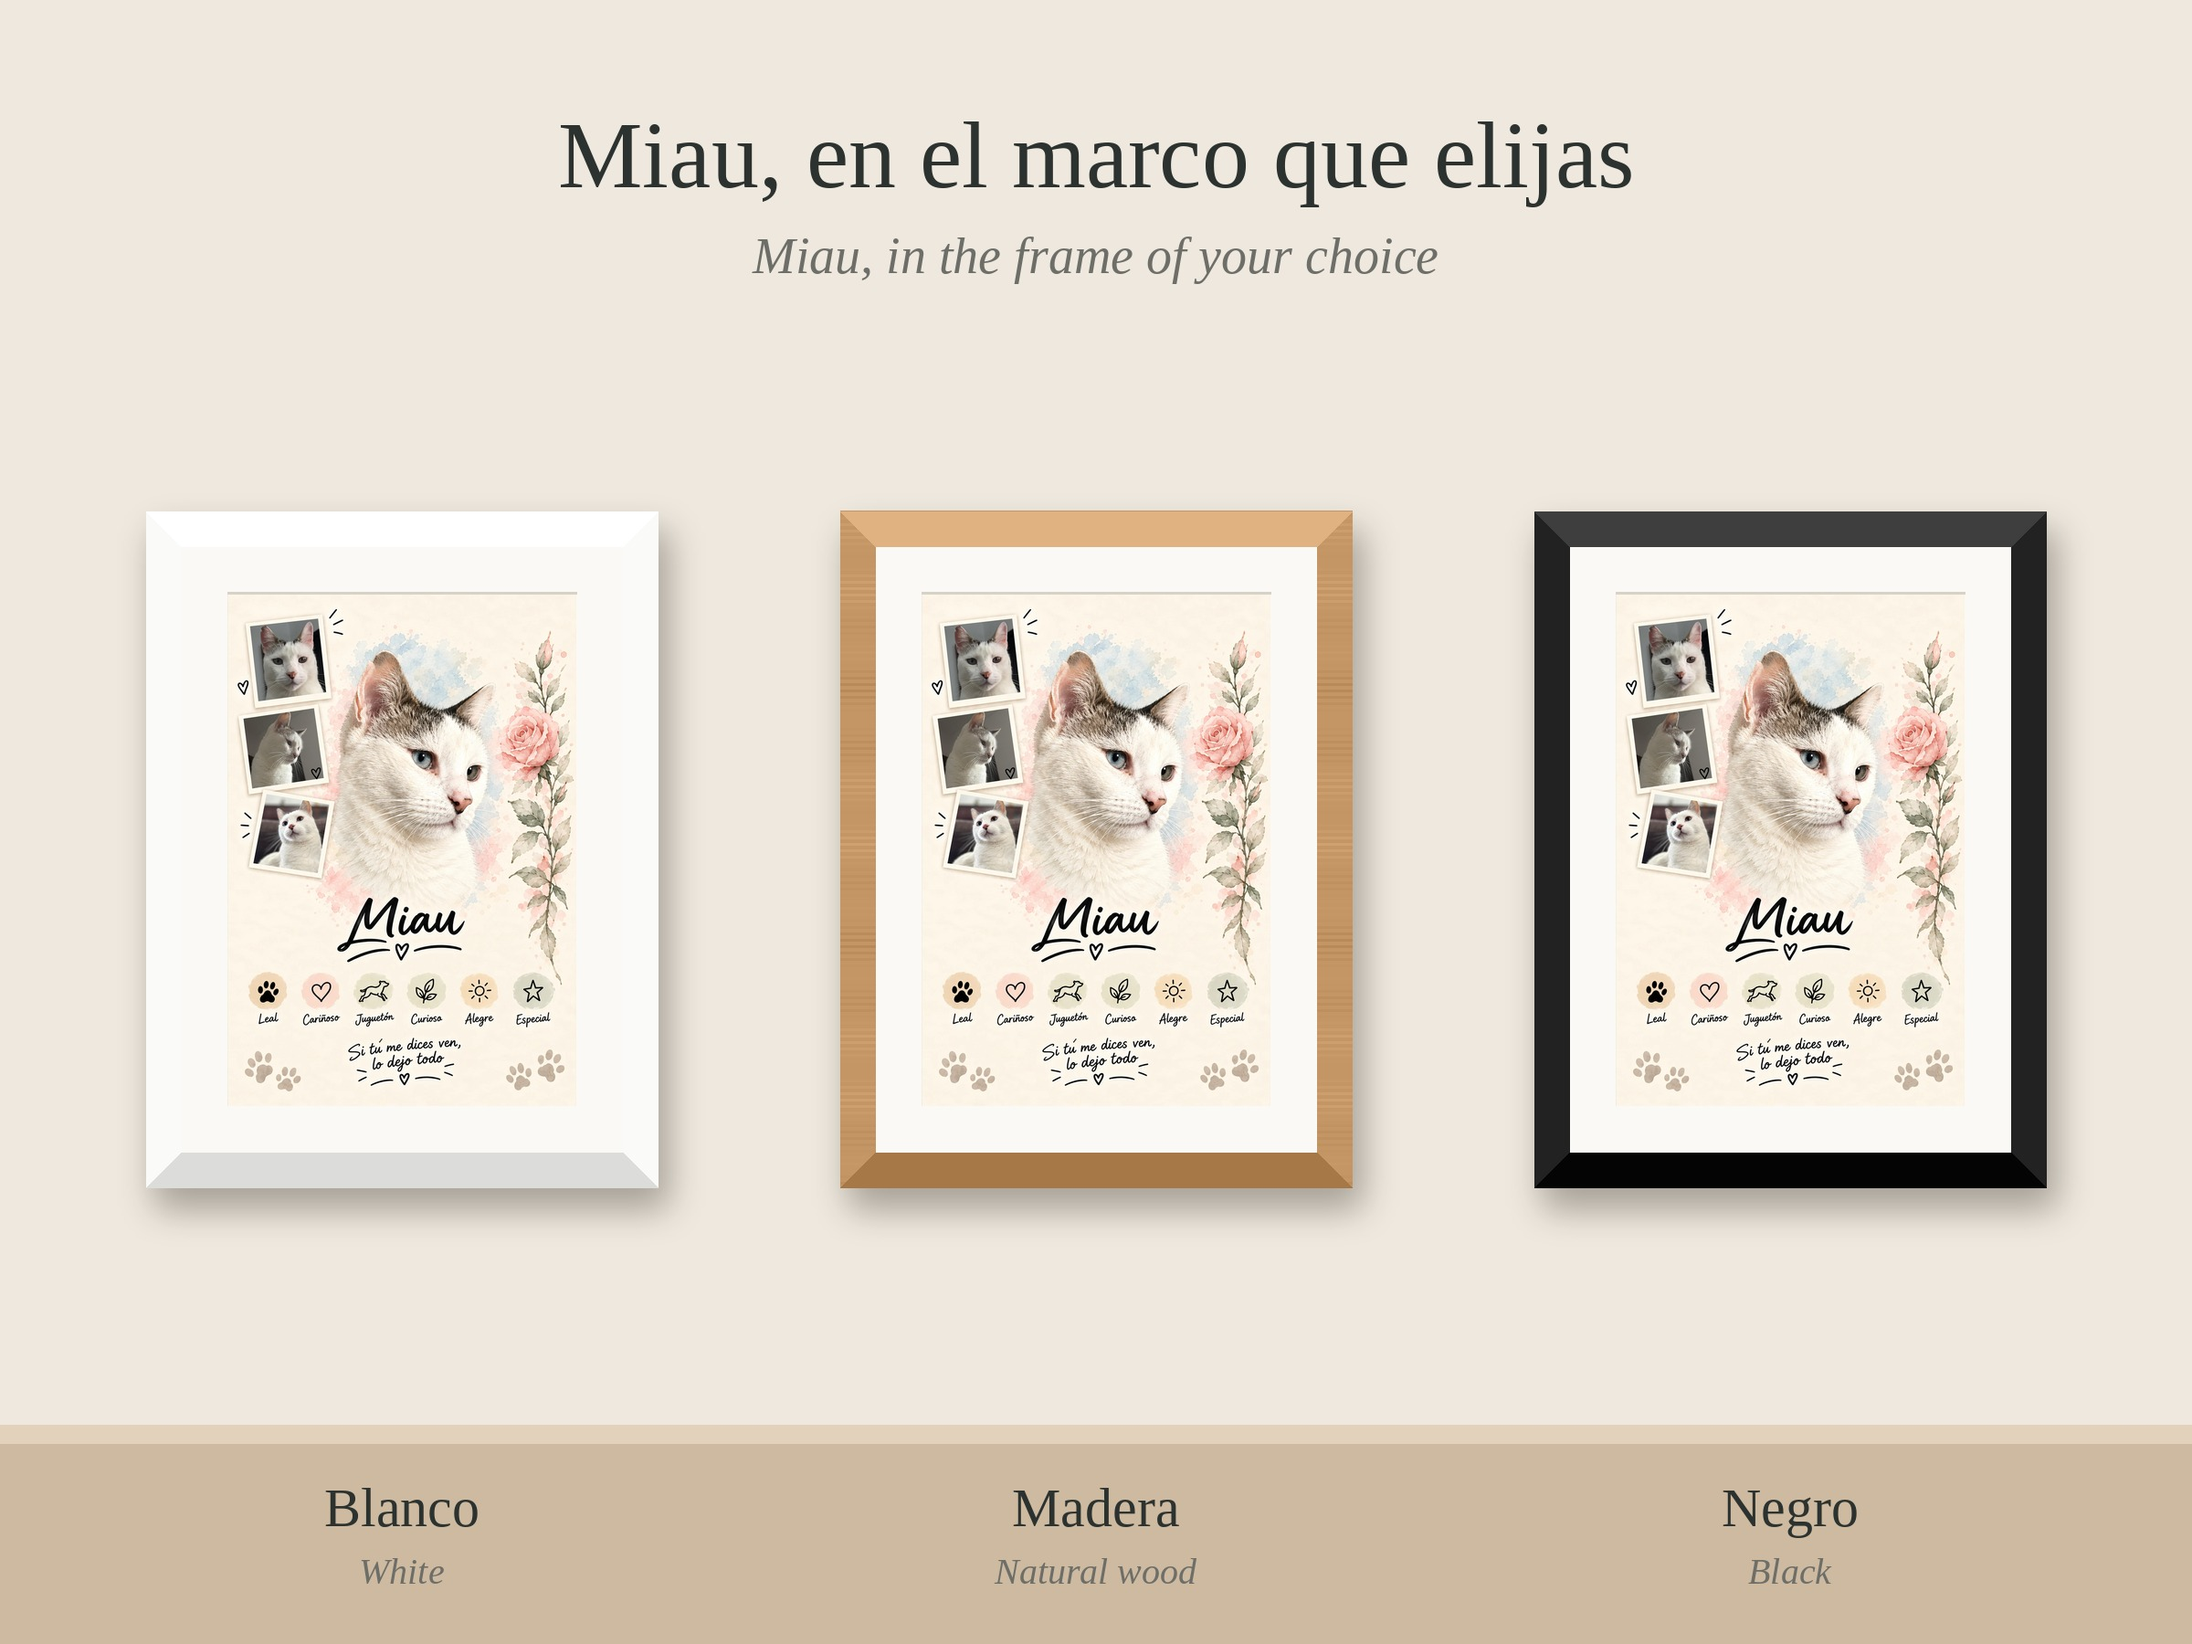
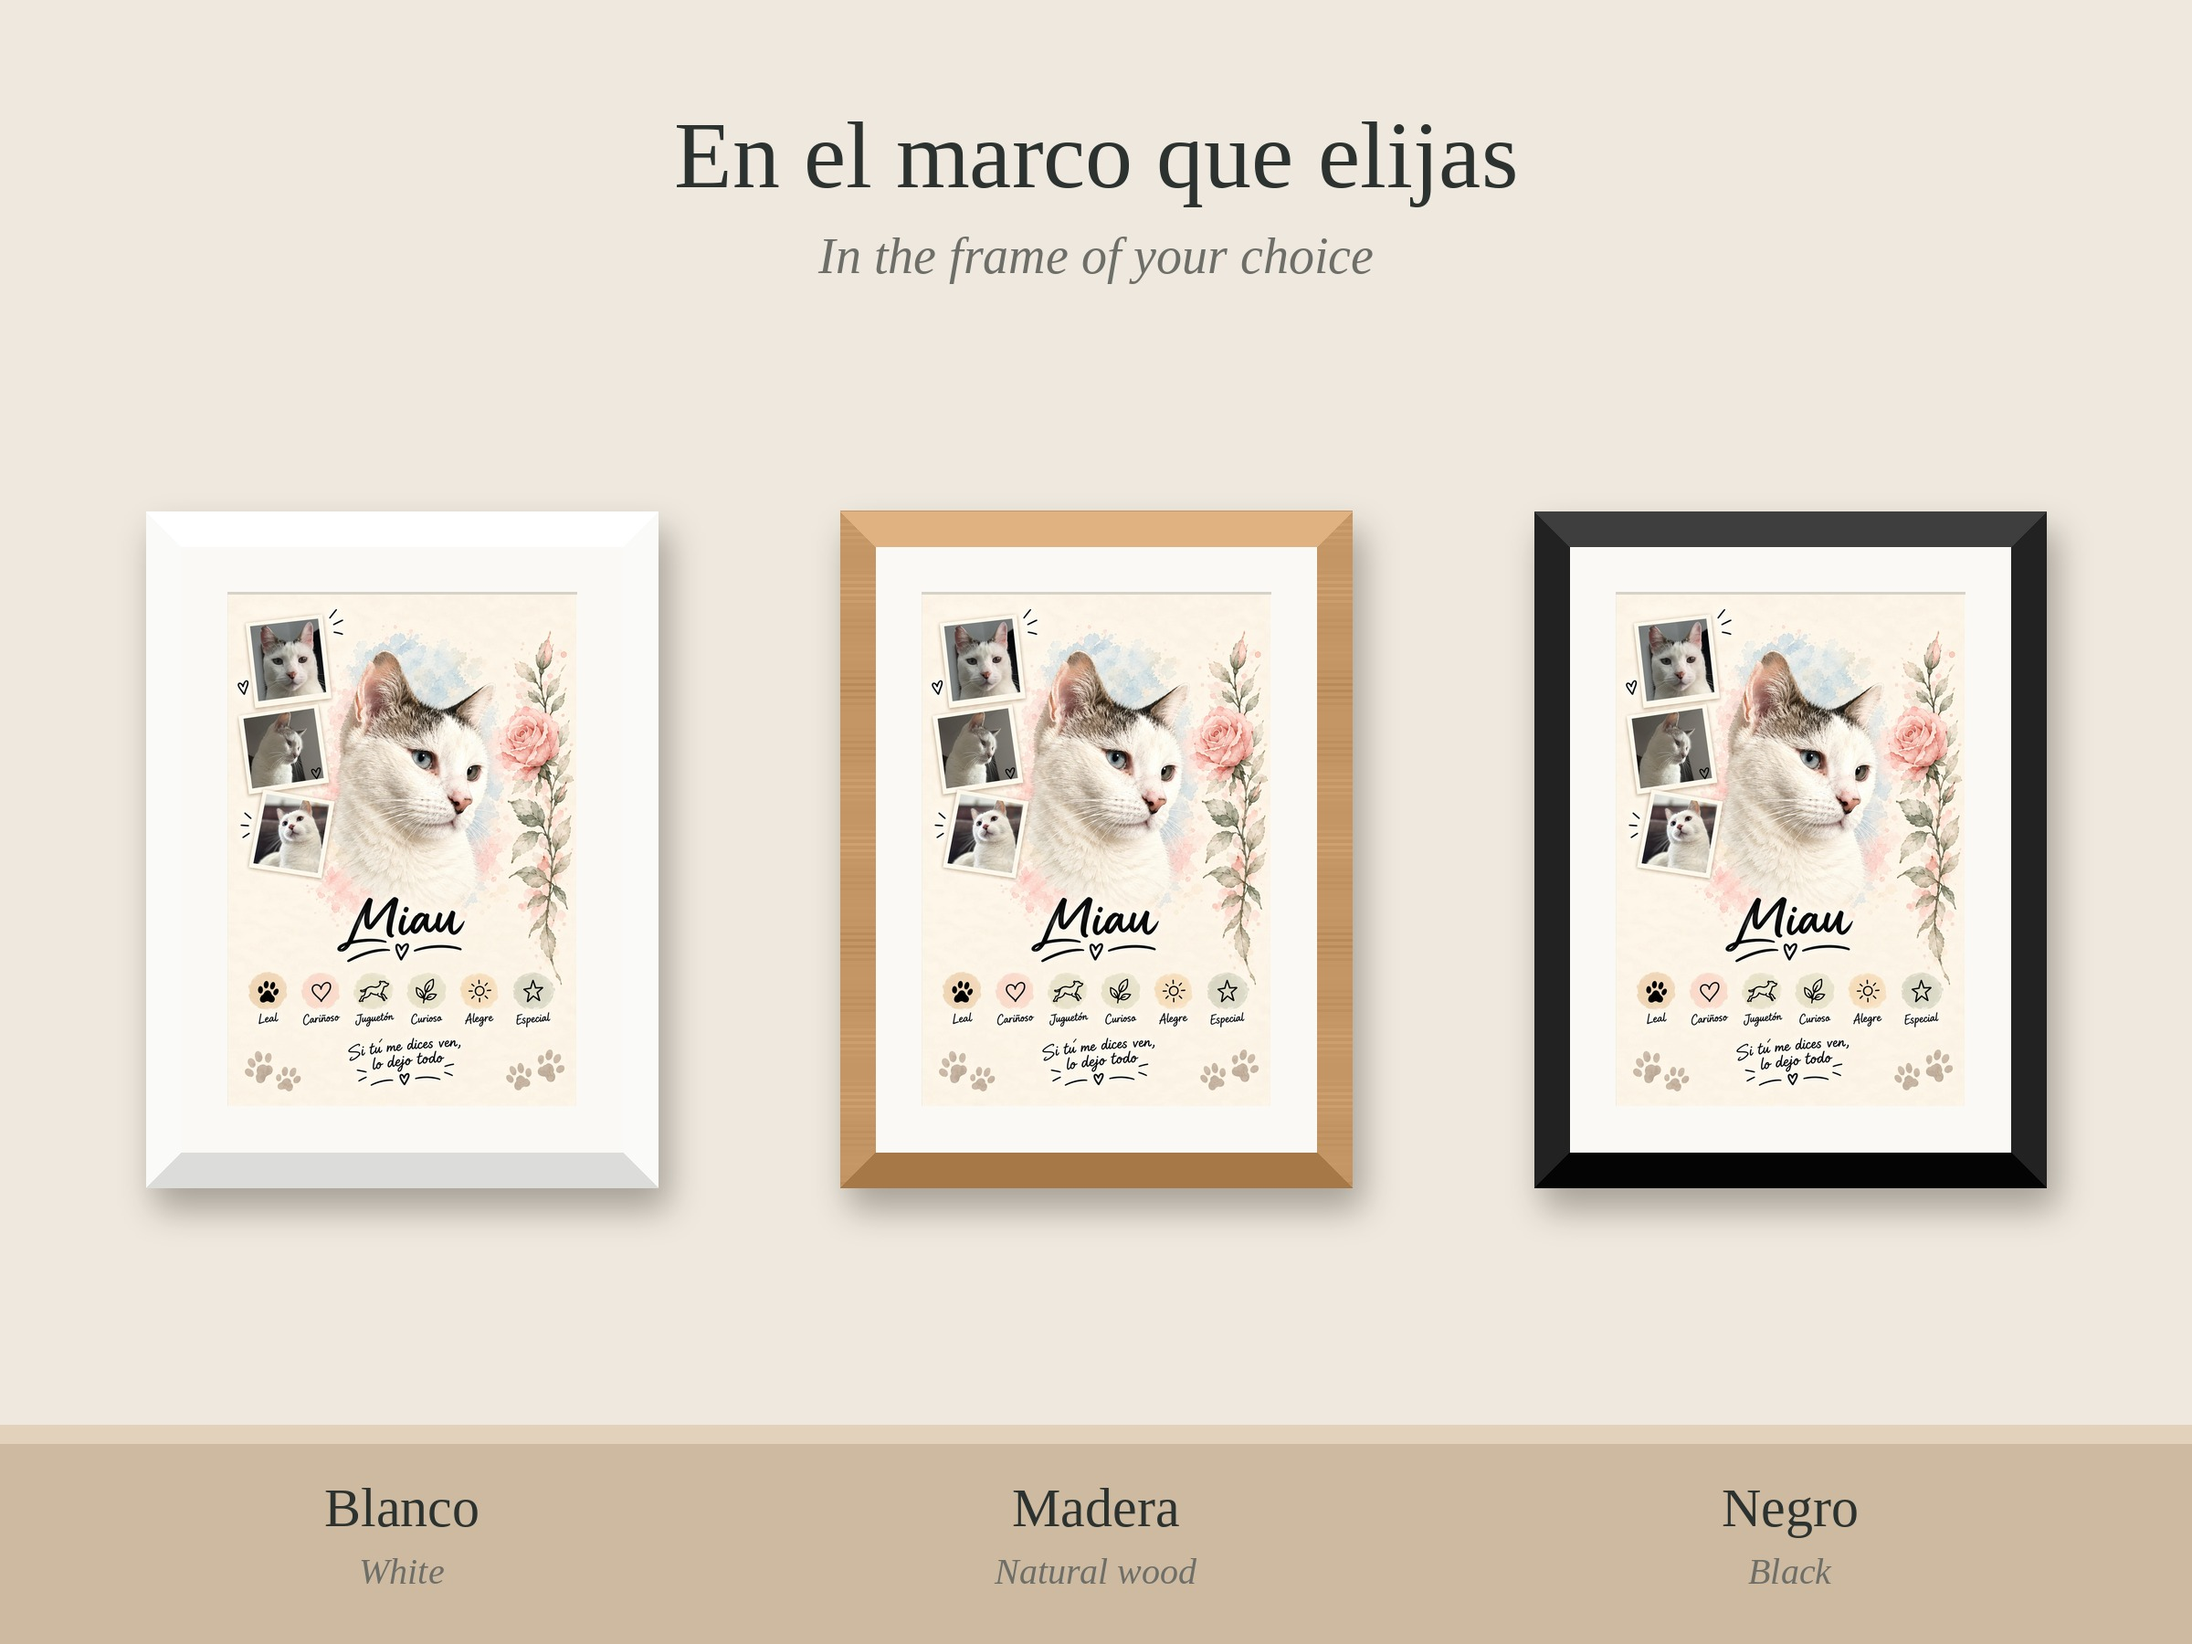
Fotos de caso con títulos genéricos (sin nombre de la mascota); ficha Lavanda sin antes/después
Claude-Session: https://claude.ai/code/session_01EXxT3oYALMgVYQXs29BEaV

Changed region(s): [[0.25, 0.0622, 0.75, 0.1867]]

diff --git a/generador/casos/caso_real.py b/generador/casos/caso_real.py
@@ -6,7 +6,7 @@ Carpeta del caso (assets/casos/<mascota>/):
   retrato-<estilo>.jpg        el retrato terminado (uno o varios estilos)
 
 Uso:
-  python3 generador/casos/caso_real.py miau Miau lavanda "ojos de distinto color"
+  python3 generador/casos/caso_real.py miau Miau lavanda x   (títulos genéricos: sin nombre de la mascota)
   → assets/casos/miau/anuncio/<estilo>-1-antes-despues.jpg … -4-marcos.jpg
 
 Recortes: FOCO[caso] = (fx, fy) de la cara en la foto principal y en el retrato (0–1).
@@ -63,7 +63,7 @@ def flecha(d, x0, x1, y):
 # 2 · De sus fotos a su retrato: demuestra que usamos TODAS las fotos del cliente
 def fotos_a_retrato(caso, nombre, estilo, salida):
     im, d = lienzo()
-    titulo(d, f'De sus fotos al retrato de {nombre}', f'From {nombre}\'s photos to the portrait')
+    titulo(d, 'De sus fotos a su retrato', 'From their photos to their portrait')
     fotos = [abrir(C(caso, 'foto-principal.jpg'))] + [abrir(C(caso, f'extra-{i}.jpg')) for i in (1, 2, 3)]
     for foto, c, a in zip(fotos, [(430, 690), (830, 740), (440, 1210), (840, 1250)], [-5, 4, 3, -4]):
         polaroid(im, foto, c, 390, a)
@@ -85,7 +85,7 @@ def fotos_a_retrato(caso, nombre, estilo, salida):
 # 3 · Detalle: la misma zona de la foto y del retrato (fidelidad)
 def detalle(caso, nombre, estilo, rasgo, salida):
     im, d = lienzo()
-    titulo(d, f'Hasta el último detalle: {rasgo}', 'True to every detail')
+    titulo(d, 'Fiel hasta el último detalle', 'True to every detail')
     foto, ret = abrir(C(caso, 'foto-principal.jpg')), abrir(C(caso, f'retrato-{estilo}.jpg'))
     ff, fr = FOCO[caso]['foto'], FOCO[caso]['retrato']
     s = 900
@@ -98,7 +98,7 @@ def detalle(caso, nombre, estilo, rasgo, salida):
         centrado(d, x + s / 2, 1490, en, F(ITAL, 42), GRIS)
     d = ImageDraw.Draw(im)
     flecha(d, 1130, 1270, 400 + s // 2)
-    centrado(d, W / 2, 1715, f'Caso real · {nombre}', F(ITAL, 40), GRIS)
+    centrado(d, W / 2, 1715, f'Caso real · estilo {estilo.capitalize()}', F(ITAL, 40), GRIS)
     im.save(salida, quality=92)
 
 
@@ -141,8 +141,8 @@ def marcos(caso, nombre, estilo, salida):
         d = ImageDraw.Draw(im)
         centrado(d, x + fw / 2, 1650, es, F(SERIF, 60), TINTA)
         centrado(d, x + fw / 2, 1720, en, F(ITAL, 40), GRIS)
-    centrado(d, W / 2, 170, f'{nombre}, en el marco que elijas', F(SERIF, 104), TINTA)
-    centrado(d, W / 2, 280, f'{nombre}, in the frame of your choice', F(ITAL, 56), GRIS)
+    centrado(d, W / 2, 170, 'En el marco que elijas', F(SERIF, 104), TINTA)
+    centrado(d, W / 2, 280, 'In the frame of your choice', F(ITAL, 56), GRIS)
     im.save(salida, quality=92)
 
 
@@ -167,7 +167,7 @@ def kit(caso, nombre, estilo, rasgo):
     os.makedirs(out, exist_ok=True)
     p = lambda n: os.path.join(out, f'{estilo}-{n}.jpg')
     antes_despues(C(caso, 'foto-principal.jpg'), C(caso, f'retrato-{estilo}.jpg'), p('1-antes-despues'),
-                  f'Caso real · {nombre} · estilo {estilo.capitalize()}')
+                  f'Caso real · estilo {estilo.capitalize()}')
     fotos_a_retrato(caso, nombre, estilo, p('2-sus-fotos'))
     detalle(caso, nombre, estilo, rasgo, p('3-detalle'))
     marcos(caso, nombre, estilo, p('4-marcos'))
